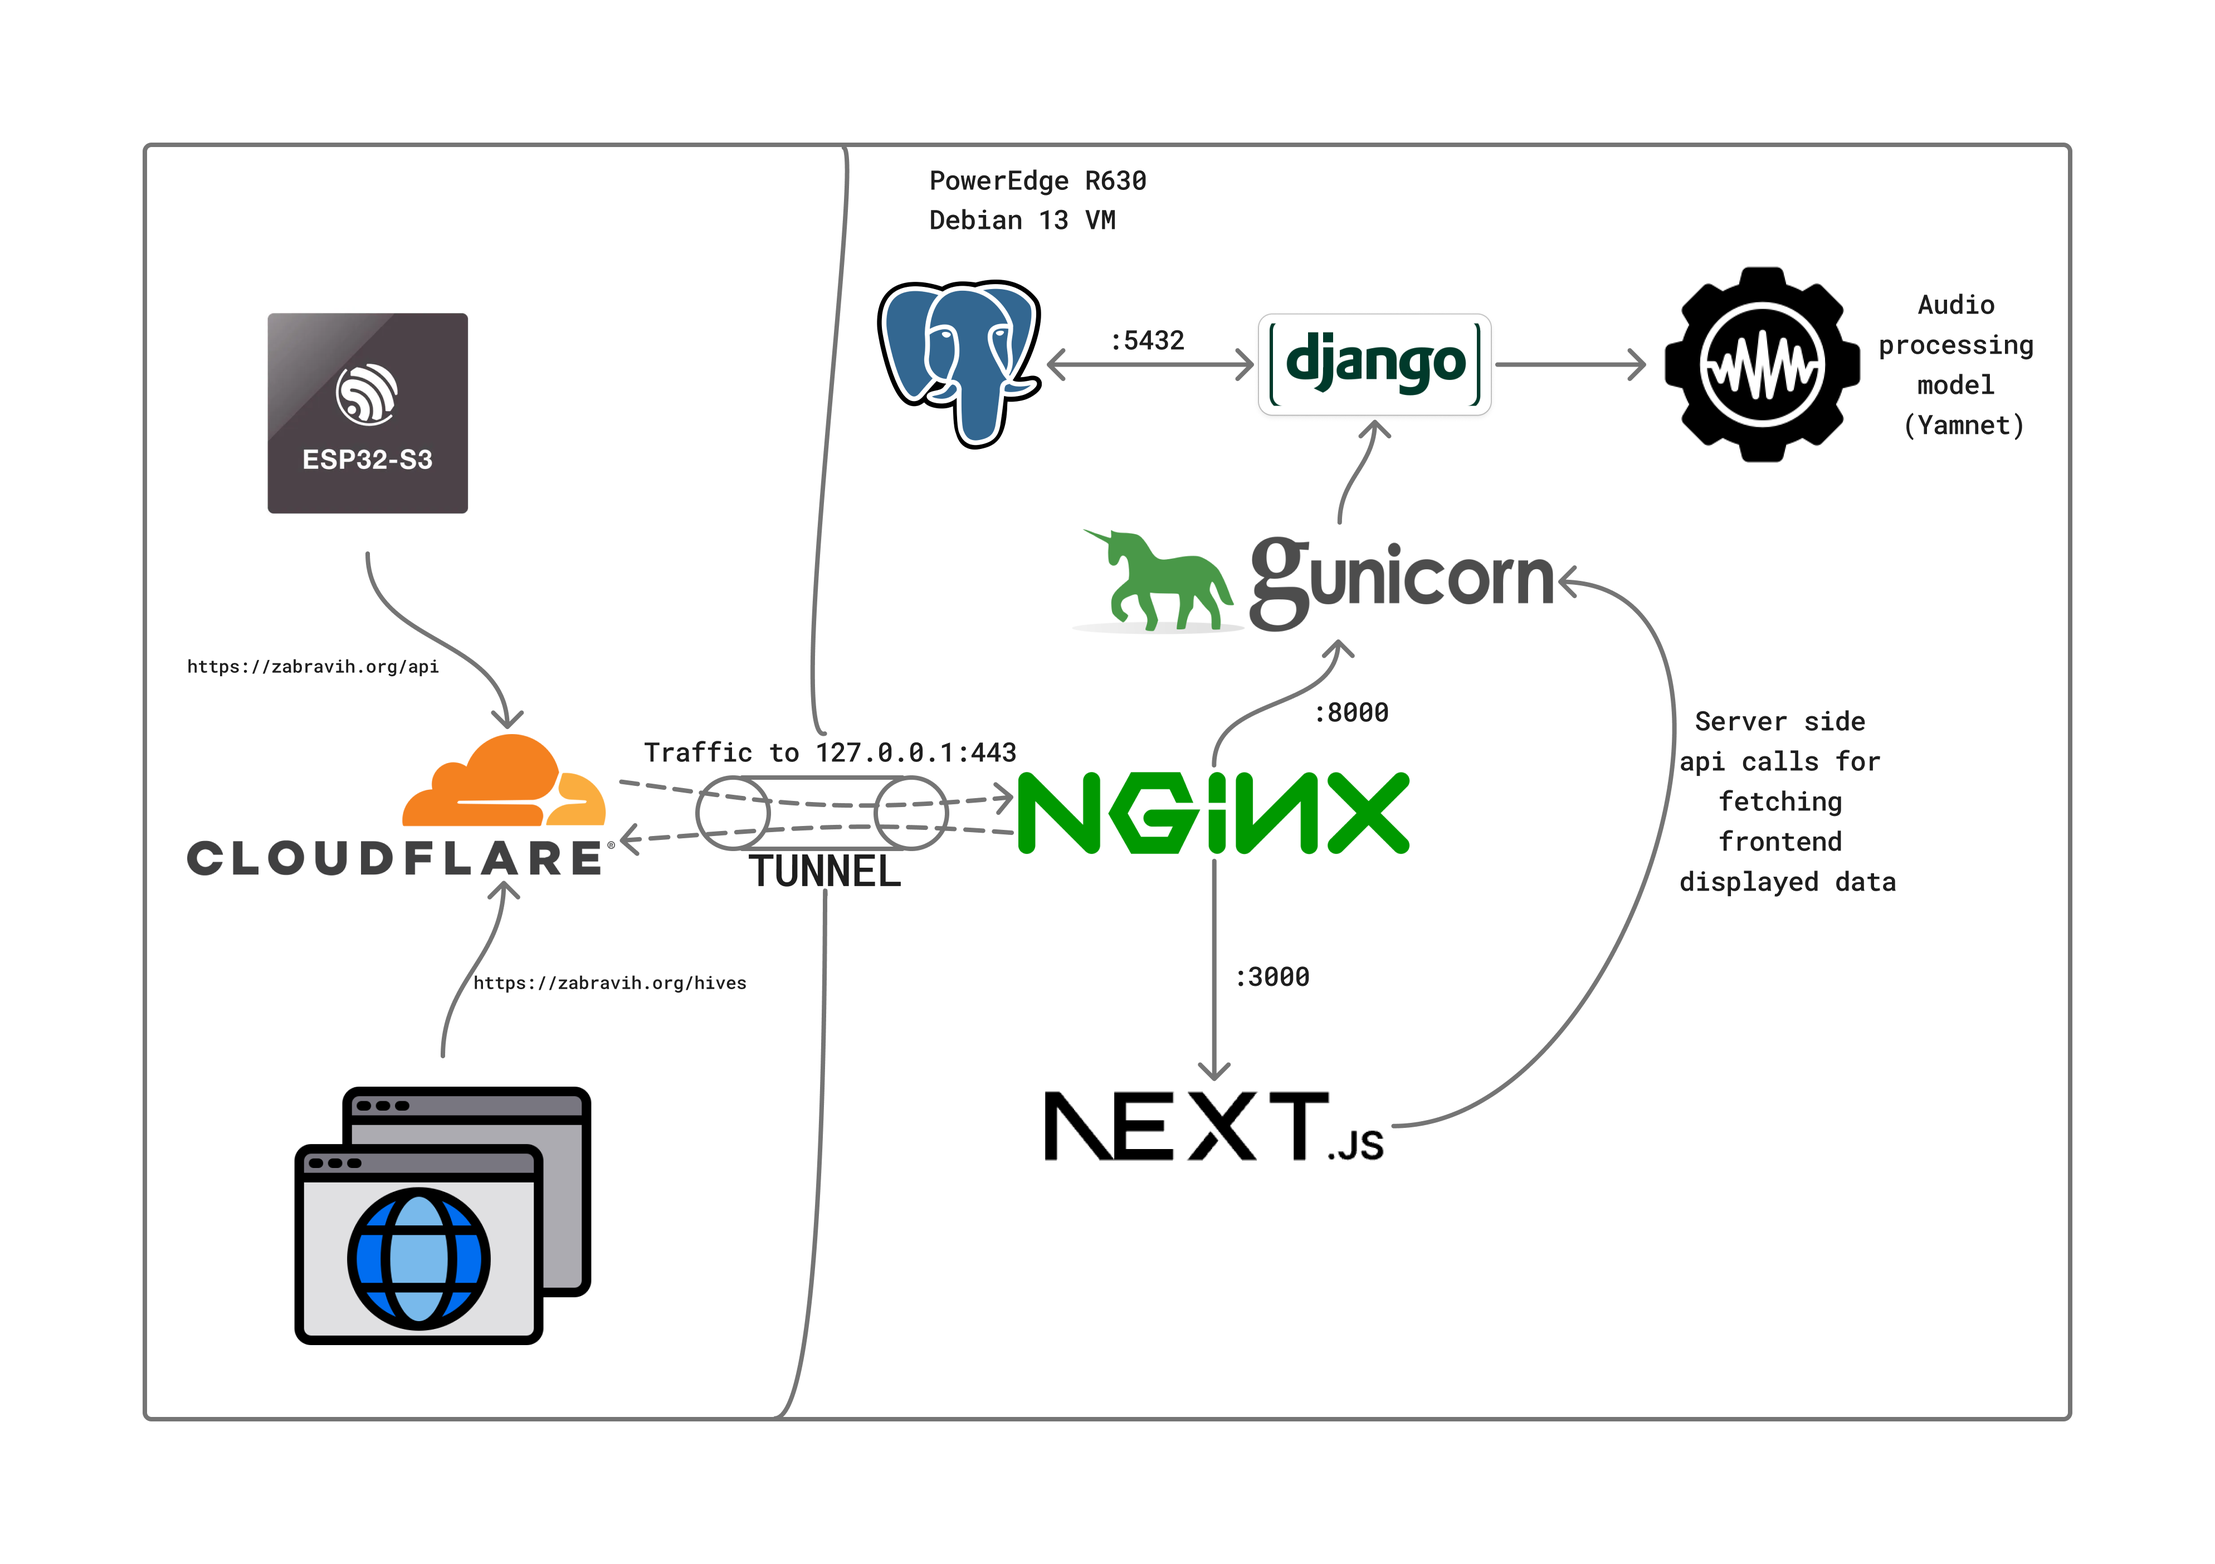
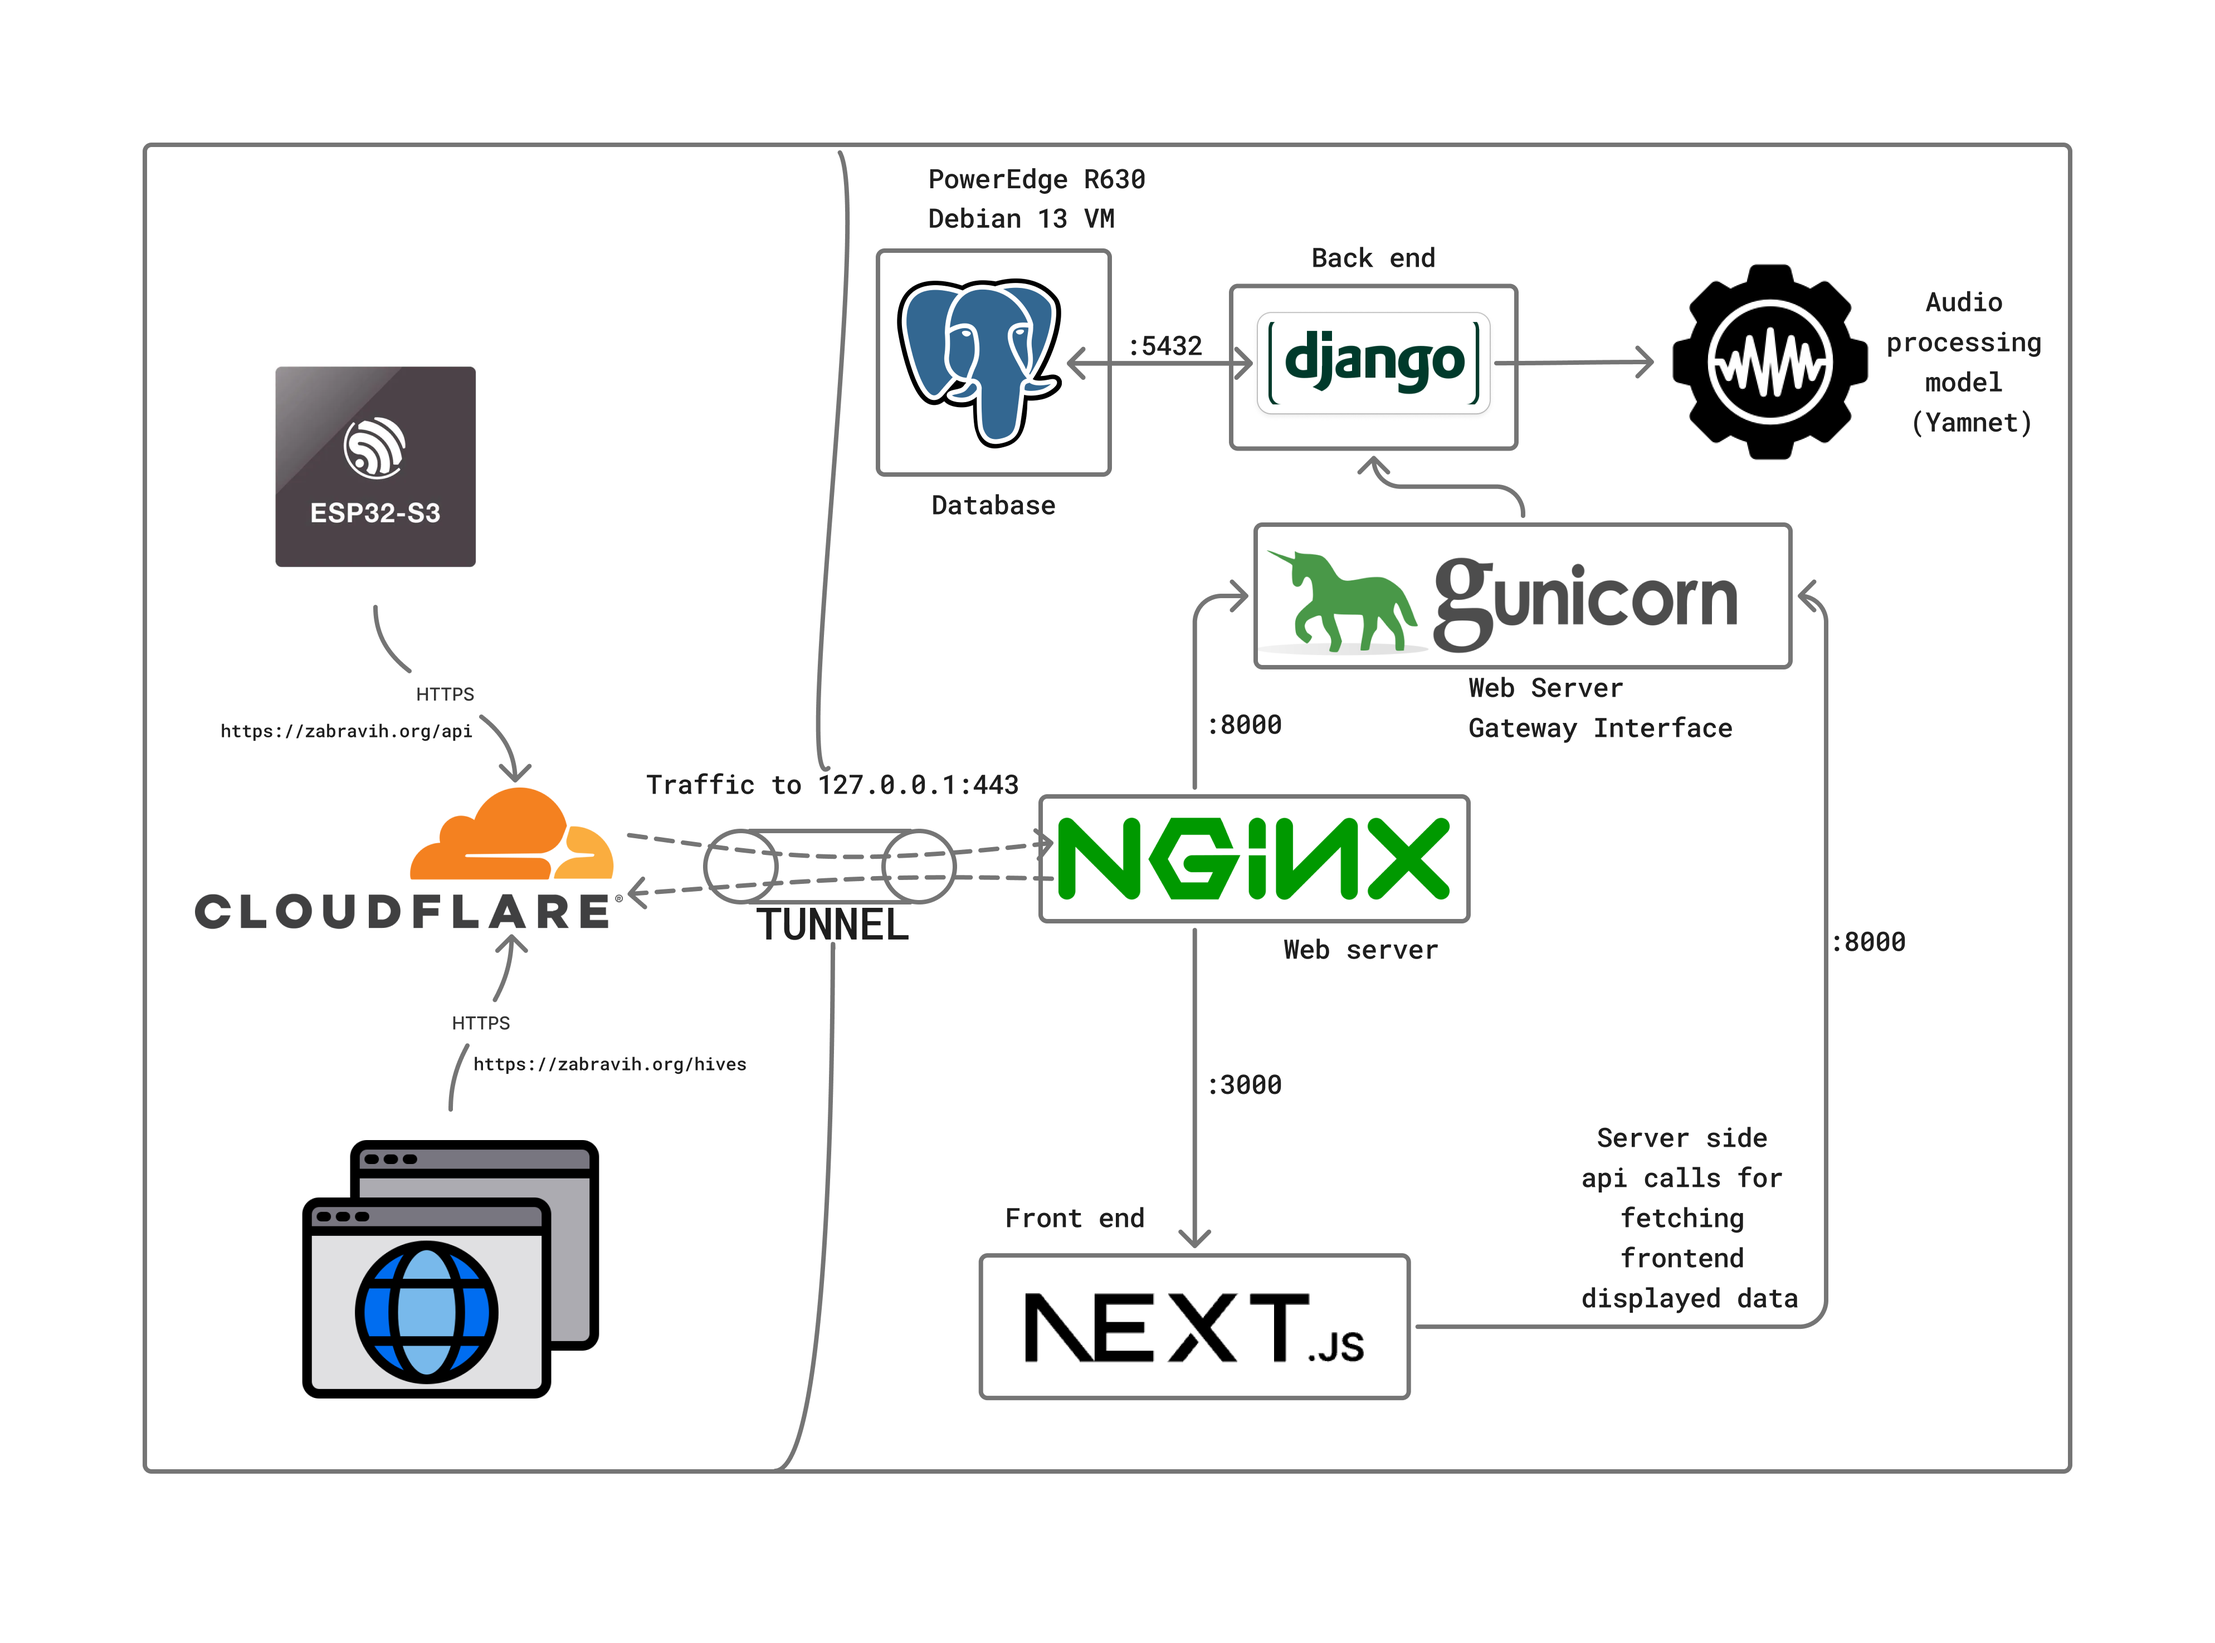
Add readme and fix architecture

diff --git a/README.md b/README.md
@@ -1,1 +1,50 @@
-# Hack-TUES-12-Zabravih
+# SmeeHive
+
+IoT система за интелигентно наблюдение на пчелни кошери в реално време. Устройства ESP32-S3, монтирани в кошерите, записват сензорни данни (температура, влажност, CO2) и аудио, което се анализира от ML модел базиран на YAMNet за засичане на присъствието на майката пчела.
+
+## За проекта
+
+Проектът включва:
+- Django REST API бекенд, хостван с Gunicorn и Nginx
+- Next.js фронтенд с интерактивно табло (графики, циферблати, шестоъгълна мрежа от кошери)
+- ESP32-S3 фърмуер, събиращ температура, влажност, CO2 и аудио
+- YAMNet ML модел за засичане на майката пчела от аудио записи
+- PostgreSQL база данни за съхранение на измервания и метаданни
+- BLE provisioning за конфигурация на WiFi credentials директно от устройството
+
+### Как работи
+
+1. ESP32-S3 устройството в кошера събира сензорни данни и записва 10-секунден аудио клип
+2. Данните се изпращат към Django API чрез HTTPS multipart POST
+3. Django стартира YAMNet ML модел, който анализира аудиото и определя статуса на майката (QNP / QPNA / QPR / QPO)
+4. Резултатите се съхраняват в PostgreSQL и се визуализират в Next.js таблото
+5. Пчеларят вижда графики за здравето на кошера и статус на майката в реално време
+
+## Изградено с
+
+<p align="left">
+  <a href="https://www.djangoproject.com/" target="_blank"><img src="https://img.shields.io/badge/Django-092E20?style=for-the-badge&logo=django&logoColor=white" /></a>
+  <a href="https://www.django-rest-framework.org/" target="_blank"><img src="https://img.shields.io/badge/Django%20REST-ff1709?style=for-the-badge&logo=django&logoColor=white" /></a>
+  <a href="https://nextjs.org/" target="_blank"><img src="https://img.shields.io/badge/Next.js-000000?style=for-the-badge&logo=next.js&logoColor=white" /></a>
+  <a href="https://react.dev/" target="_blank"><img src="https://img.shields.io/badge/React-20232A?style=for-the-badge&logo=react&logoColor=61DAFB" /></a>
+  <a href="https://www.typescriptlang.org/" target="_blank"><img src="https://img.shields.io/badge/TypeScript-007ACC?style=for-the-badge&logo=typescript&logoColor=white" /></a>
+  <a href="https://tailwindcss.com/" target="_blank"><img src="https://img.shields.io/badge/Tailwind%20CSS-06B6D4?style=for-the-badge&logo=tailwindcss&logoColor=white" /></a>
+  <a href="https://www.tensorflow.org/" target="_blank"><img src="https://img.shields.io/badge/TensorFlow-FF6F00?style=for-the-badge&logo=tensorflow&logoColor=white" /></a>
+  <a href="https://www.postgresql.org/" target="_blank"><img src="https://img.shields.io/badge/PostgreSQL-336791?style=for-the-badge&logo=postgresql&logoColor=white" /></a>
+  <a href="https://gunicorn.org/" target="_blank"><img src="https://img.shields.io/badge/Gunicorn-499848?style=for-the-badge&logo=python&logoColor=white" /></a>
+  <a href="https://nginx.org/" target="_blank"><img src="https://img.shields.io/badge/Nginx-009639?style=for-the-badge&logo=nginx&logoColor=white" /></a>
+  <a href="https://platformio.org/" target="_blank"><img src="https://img.shields.io/badge/PlatformIO-FF7F00?style=for-the-badge&logo=platformio&logoColor=white" /></a>
+  <a href="https://www.espressif.com/en/products/socs/esp32-s3" target="_blank"><img src="https://img.shields.io/badge/ESP32--S3-E7352C?style=for-the-badge&logo=espressif&logoColor=white" /></a>
+</p>
+
+## Архитектура
+
+![architecture](architecture.png)
+
+## Отбор
+
+- [Iliya Iliev](https://github.com/lazy-mannn)
+- [Alexander Grigorov](https://github.com/Mr-TopG)
+- [Alexander Beshev](https://github.com/MrBeshev)
+- [Antoan Tsonkov](https://github.com/smookie77)
+- [Nevena Dimitrova](https://github.com/nevena331)
